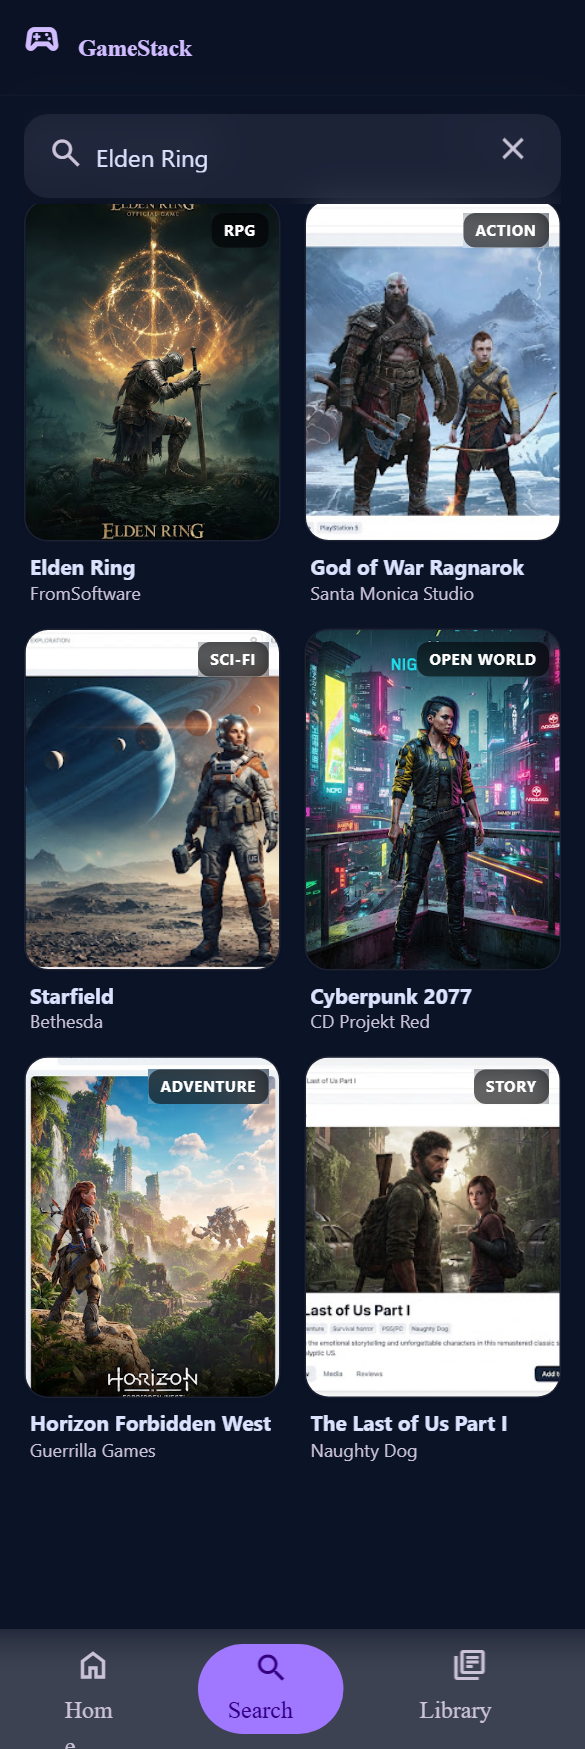
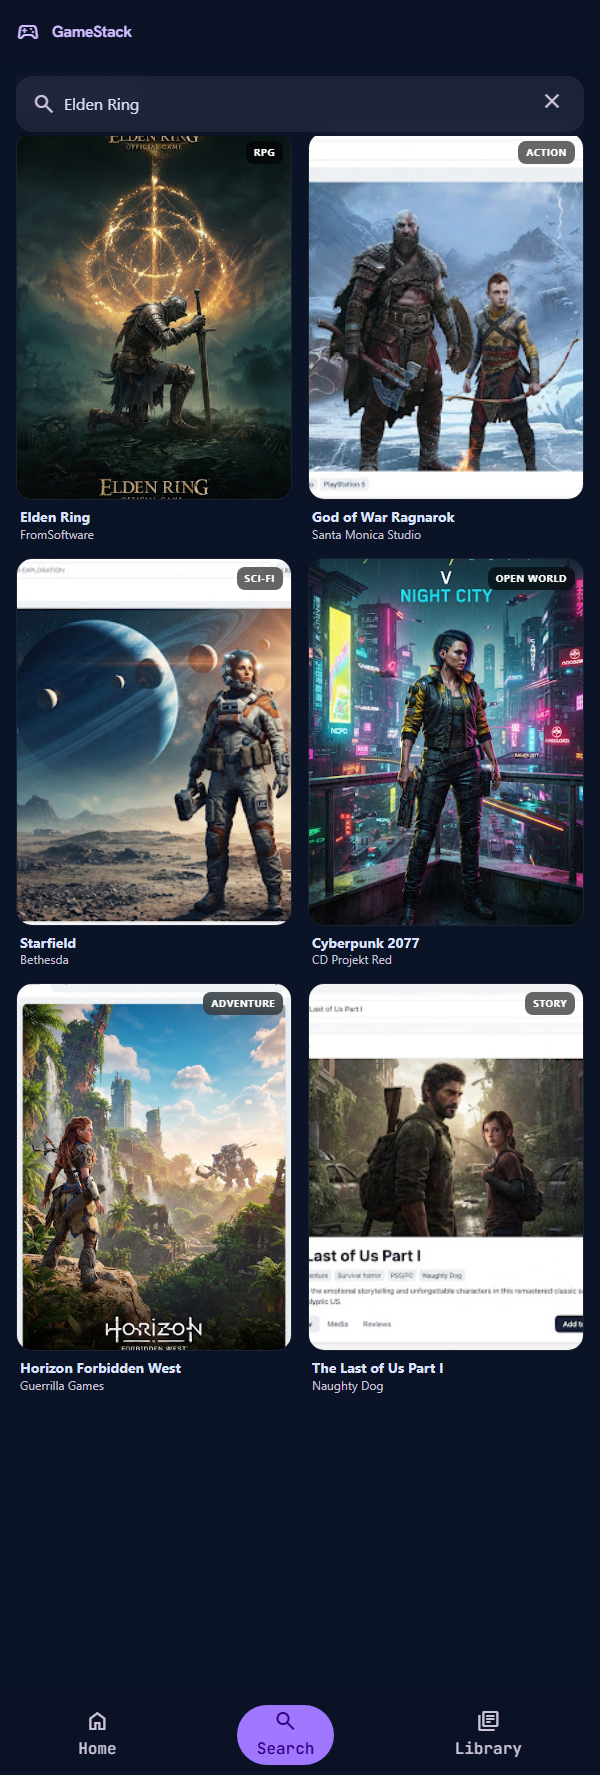
docs(design): add the refresh-error mockup and require one for a new state
The banner shipped, was verified on device and merged with no design reference
at all — search.html still shows the state it replaced. Nothing required a
mockup for a new state, so the gap stayed invisible.

Adds search-refresh-error.html and .png, a Tier 2 rule that a state departing
from the approved exports ships both files in the same change, and the trap
this cost five renders to find: a sticky element with a top offset displaces
itself downward and paints over what follows, so the banner was in --dump-dom
and absent from the screenshot.

The same overlap was already hiding a "Search Results" heading and a Filters
button inside search.html — present in the markup, absent from its own PNG.
Filters is deleted from both mockups: it is deferred in the Spec, and a control
nobody can see is how a deferred feature leaks back in. The new mockup also
drops the heading so it shows exactly what the app renders; search.html keeps
it pending a decision.

diff --git a/docs/project/design/search/search-refresh-error.html b/docs/project/design/search/search-refresh-error.html
@@ -1,7 +1,7 @@
 <!DOCTYPE html><html class="dark" lang="en" style=""><head>
 <meta charset="utf-8">
 <meta content="width=device-width, initial-scale=1.0, viewport-fit=cover" name="viewport">
-<title>GameStack - Search</title>
+<title>GameStack - Search (refresh failed)</title>
 <script src="https://cdn.tailwindcss.com?plugins=forms,container-queries"></script>
 <link href="https://fonts.googleapis.com/css2?family=Hanken+Grotesk:wght@500;600;700&amp;family=Inter:wght@400;500&amp;family=JetBrains+Mono:wght@500&amp;family=Material+Symbols+Outlined:wght,FILL@100..700,0..1&amp;display=swap" rel="stylesheet">
 <script id="tailwind-config">
@@ -106,9 +106,11 @@
 </div>
 </header>
 <!-- Main Canvas -->
-<main class="flex-1 mb-20 px-4 pb-8 overflow-y-auto mt-2">
+<main class="flex-1 mb-20 px-4 pb-8 overflow-y-auto pt-[72px]">
 <!-- Sticky Search Bar -->
-<div class="sticky top-[64px] z-40 bg-surface/80 backdrop-blur-md py-1 mb-2">
+<!-- sticky dropped for this render: position:sticky with top:64px displaces the
+     bar downward over the content below it, hiding the banner. Static export. -->
+<div class="bg-surface/80 py-1 mb-2">
 <div class="relative group">
 <div class="absolute inset-y-0 left-0 pl-4 flex items-center pointer-events-none">
 <span class="material-symbols-outlined text-on-surface-variant" data-icon="search">search</span>
@@ -121,9 +123,15 @@
 </div>
 </div>
 </div>
+<!-- Refresh-failure banner: shown above the results a failed pull-to-refresh
+     kept on screen. Uses error-container / on-error-container, matching
+     DESIGN.md and the implementation. -->
+<div class="flex items-center gap-2 rounded-lg pl-4 pr-2 py-2 mt-2 bg-error-container text-on-error-container">
+<span class="flex-1 text-sm" role="status">Couldn't refresh results</span>
+<button class="px-3 py-1 rounded-full text-sm font-medium hover:bg-on-error-container/10 transition-colors active:scale-95">Retry</button>
+</div>
 <!-- Section: Results -->
 <section class="mt-2">
-<h2 class="text-xl font-bold tracking-tight text-on-surface mb-6">Search Results</h2>
 <!-- 2-Column Bento Grid for Results -->
 <div class="grid grid-cols-2 gap-4">
 <!-- Game Card 1 -->

diff --git a/docs/project/DRIFT-CHECKLIST.md b/docs/project/DRIFT-CHECKLIST.md
@@ -135,6 +135,8 @@ useful history for understanding recurring patterns.
 
 | Date | Item | Resolution (code fixed / doc updated) |
 |---|---|---|
+| 2026-08-23 | The refresh-failure banner shipped, was verified on device and merged, and had no design reference at all: `search.html` still showed the state it replaced. Nothing in the harness required a mockup for a new state, so the gap was invisible until someone asked what the screen is supposed to look like | Asset added — `design/search/search-refresh-error.html` and `.png`, and a Tier 2 rule that a state departing from the approved exports ships its mockup in the same change, both files, with the recipe in `design/README.md`. That README also gains the trap this cost five renders to find: a `sticky` element with a `top` offset displaces itself downward and paints over whatever follows, so the banner was present in `--dump-dom` and invisible in the screenshot. Drop the `sticky` and give `main` a `pt-[72px]` for a static export |
+| 2026-08-23 | Building that mockup exposed that `design/search/search.html` **contains** a "Search Results" heading and a "Filters" button that its own PNG does not show — the same `sticky` overlap that hid the banner paints over them. So the earlier row saying "the approved mockup shows none" was right about the rendered asset and wrong about the file, and the real defect was markup that exists, is invisible, and had already misled one reading | Asset fixed — the Filters button is deleted from both mockups by explicit human decision: filters are deferred in the Spec, and a control nobody can see is exactly how a deferred feature leaks back in. `search-refresh-error.html` also drops the heading so it shows precisely what the app renders; `search.html` keeps it, still invisible, pending a plan-level call on whether the heading joins the code or leaves the design. Both PNGs regenerated, since removing markup that occupied space in flow shifts the layout even though it was painted over |
 | 2026-08-23 | The measurement justifying the new Robolectric rule was wrong in CLAUDE.md, this log and TOOLING-BACKLOG: "~4s for eight screen tests against ~1.5s for the other 27". Re-measured, the shape was also wrong: the cost scales at roughly a second per screen test rather than amortising as a per-class startup, and Robolectric is most of `testDebugUnitTest`. The old figure had been carried forward after more tests were added, and "27" was one test class mistaken for the whole suite. A recorded bound whose number is wrong is worse than none — the next reader sees 8.5s against a recorded 4s and cannot tell whether the suite regressed or the record lied | Doc updated in all three places, with the real figures and the mechanism (scales, does not amortise). The revisit trigger changed from a wall-clock number to **the second screen-test class**, because that is the concrete event that doubles it and it is close. The Gradle-task split is no longer "dropped as complexity bought for nothing" — it is TOOLING-BACKLOG item 5, ranked above the post-edit hook, since that hook's premise is a quick loop the split is what preserves. Rule of thumb recorded in CLAUDE.md: re-measure when adding a screen test; never carry a figure forward, which is exactly how this went wrong |
 | 2026-08-23 | Testing Stack (Tier 1) forbade Robolectric so `./gradlew test` would stay fast. The rule predated the question it was blocking: Compose screen tests under Robolectric run on the JVM in seconds, and they are the only thing that can reach Composable-level logic. Two real gaps were sitting behind it — the `rememberSingleClick` fix on the empty-state CTA had no test at all (recorded as untestable on 2026-08-22), and nothing asserted that the refresh banner declares a live region | Rule changed after explicit conversation, and narrowed rather than relaxed: Robolectric is permitted **for Compose screen tests and nothing else** — not for DAOs against real SQLite, never as a substitute for a test that already runs pure. The split into separate Gradle tasks was deferred on a measurement that later proved wrong — corrected in the row above; the real cost is ~1s per screen test and scales, so the trigger is now the second screen-test class. `SearchContent` is now `internal` so tests drive it with a `UiState` instead of standing up a ViewModel |
 | 2026-08-23 | The first screen test found that `rememberSingleClick` swallowed the *first* click, not the second: `lastClickMillis` initialised to `0L`, which is a real `SystemClock.uptimeMillis()` value and therefore claims a click happened at boot. Any click within 700ms of boot was dropped | Code fixed — the field is now nullable, with null meaning "never clicked". Not a user-visible defect: on a device, uptime is hours by the time a screen is interactive, which is exactly why no manual pass could ever have caught it. It was caught the way it should be, in the right order: the test was written first, failed with an empty event list, and the failure named the cause. Worth recording as the first return on screen tests, on the day they were introduced |
@@ -174,7 +176,7 @@ useful history for understanding recurring patterns.
 | 2026-08-23 | `/code-review` on the refactored pipeline found that `.debounce {}` sitting upstream of `.mapLatest {}` held a new keystroke for its own 400ms before `mapLatest` saw it, so the previous request kept running and its response could still land — showing settled results for text already replaced, or flashing the full-screen error card, for up to the whole debounce window. The hand-rolled `Job` version this replaced did *not* have that hole: it cancelled synchronously on every keystroke. The `new-viewmodel` skill had already been written documenting the flawed shape | Code fixed — the wait moved inside `mapLatest` (`delay(request.debounceMillis)`), so a newer request cancels the running one first and only then waits; the `debounce` operator and its `FlowPreview` opt-in are gone. Skill corrected in the same commit, with the trap stated explicitly because both shapes read almost identically. Noted for the record: this is the second time a fix in this file introduced the next defect, which is what the rule-of-three heuristic is meant to catch earlier |
 | 2026-08-23 | `MessageState` centred ~280dp of content in a non-scrollable `fillMaxSize` column while Search passed it `imePadding()`, so in landscape or with the keyboard raised it clipped symmetrically and pushed the CTA off-screen, unreachable | Code fixed — `verticalScroll(rememberScrollState())` added; the min height constraint survives it, so short content stays centred |
 | 2026-08-23 | `isRefreshing` was only set once `performSearch` ran, a coroutine hop after the pull was released, and nothing reset it when typing superseded a refresh — `PullToRefreshBox` reads the flag synchronously, so the indicator retracted and re-appeared on every pull, then spun over the shimmer grid when the user typed | Code fixed — set synchronously in `onRefresh`, and cleared in the branch where a new query supersedes the refresh, since `mapLatest` cancels that coroutine before it can reset the flag itself |
-| 2026-08-23 | `search_results_heading` existed in `strings.xml` but was referenced nowhere; the results grid has no heading | Code fixed — string deleted. The grid deliberately has no heading (the approved mockup shows none), so the string was the leftover, not the layout |
+| 2026-08-23 | `search_results_heading` existed in `strings.xml` but was referenced nowhere; the results grid has no heading | Code fixed — string deleted; the grid renders no heading. **Note, 2026-08-23:** accurate about the PNG, but `search.html` did contain both a heading and a Filters button, invisible under a `sticky` overlap. See the row at the top of this table |
 | 2026-08-23 | A fourth Codex pass found a fourth defect in the same ~40 lines of `SearchViewModel`: returning to a previously successful query after a failed one took the no-op branch, which left the failed query's `errorMessage` on screen covering results that were still loaded. Three consecutive review rounds had each found a real defect in that logic, and two of the fixes had introduced the next one | Code fixed by replacing the logic rather than patching it a fourth time, per an explicit human decision to stop patching. The hand-rolled `Job` plus remembered-query fields are gone; input now flows through `distinctUntilChanged` (a whitespace-only edit is not a new query), `debounce` (a newer request drops what was pending, so a refresh supersedes an undispatched keystroke) and `mapLatest` (a newer search cancels the running one). No field records which query was already searched — every version that kept one eventually let it disagree with the screen, which was the root of three of the four defects. Documented in `new-viewmodel` so the next debounced screen is not hand-rolled. Accepted trade, stated in the test: reverting text to a previously searched query now re-runs that search, one extra request behind the debounce, in exchange for deleting the field |
 | 2026-08-22 | Tier 1's blanket "never force-push a branch that has already been pushed" made squash-merge the only remedy for an untidy branch, which contradicted the merge-strategy rule adopted the same day (merge commit by default, precisely to keep `blame` and `bisect` granularity). The absolute rule was guarding against overwriting a collaborator's work — a risk that does not exist in a solo repo | Doc updated after explicit conversation, as Tier 1 requires. Tier 1 keeps the absolute ban on force-pushing `main`, any branch another person may hold, and bare `--force` anywhere; Tier 2 now permits `--force-with-lease` on your own feature branch **until its first review**. The window is anchored to the first review rather than the first push because rewriting commits orphans review threads, and that history is what caught two defects the gate passed on PR #3. Recorded in the rule itself that it is deliberately conditional where an absolute rule would be easier to obey, and why that trade was accepted |
 | 2026-08-22 | A second Codex review pass found two defects that the first pass's own fixes had introduced: unconditionally cancelling `searchJob` on every keystroke also killed the request already in flight for the same effective query (a trailing space during a first search discarded the IGDB response and dropped the screen to "No Results Found"), and `rememberSingleClick` had been applied to the result cards only, leaving the empty-state "Go To Library" CTA able to queue a duplicate navigation effect | Code fixed with two regression tests, both verified to fail without the fix. `SearchViewModel` now tracks `searchJobQuery` — the effective query the active job serves — because "a job is already searching this exact text, let it land" and "a job is scheduled for text the user abandoned, cancel it" reach the same branch and need opposite handling; `cancelSearch`/`startSearch` extracted so refresh and debounce share one path. CLAUDE.md's MVI section reworded: the guard applies to *every* navigation callback and is audited per screen, not per list — the list-centric wording is what caused the CTA to be missed. A no-argument `rememberSingleClick` overload added so single controls do not read as `rememberSingleClick<Unit>`. Note: the CTA fix has no unit test, since `rememberSingleClick` is a Composable and instrumented tests remain deferred |

diff --git a/docs/project/design/README.md b/docs/project/design/README.md
@@ -25,7 +25,7 @@ same output every time.
   "file:///C:/absolute/path/to/mockup.html"
 ```
 
-Four things that are not obvious and each cost a failed attempt:
+Five things that are not obvious and each cost a failed attempt:
 
 - **`--screenshot` needs an absolute Windows path.** A relative path fails with
   `Failed to write file … Acceso denegado`, which reads like a permissions
@@ -35,6 +35,12 @@ Four things that are not obvious and each cost a failed attempt:
   you get an unstyled page.
 - **Width matters.** Below ~600px the Stitch markup clips its own fixed header
   and search bar at the right edge. 600×1775 matches the existing assets.
+- **A `sticky` element with a `top` offset displaces itself downward and covers
+  whatever follows it.** These exports use `sticky top-[64px]` on the search bar
+  to clear the fixed header, which in a static render just hides the next block —
+  it cost five renders to find, because the element is present in `--dump-dom`
+  and simply painted over. For a new state, drop the `sticky` and give `main` a
+  `pt-[72px]` instead: same picture, nothing hidden.
 - The Chrome path above is the Windows default; adjust per machine.
 
 ## Screenshot cost, and why the AVD size is not a lever
@@ -83,3 +89,18 @@ a fraction of a screenshot's cost, but never anything involving the keyboard.
 No Skill owns "produce or refresh a design reference". Rendering currently
 happens ad hoc against this file. If it recurs, that is a Skill worth adding
 rather than improvising each time — see CLAUDE.md → Available Skills.
+
+## A new state needs its own mockup
+
+Any element or screen state that departs from what the approved exports already
+show gets its own `.html` and `.png` here, in the folder for its screen, named
+for the state (`search-refresh-error`, not `search-2`).
+
+Both files, not one. The HTML is what an agent reads and re-renders; the PNG is
+what a human looks at without a browser. A state with only a PNG cannot be
+regenerated, and a state with only HTML will not be looked at.
+
+This exists because the refresh-failure banner shipped, was verified on device,
+and then had no design reference at all — the screen's mockup still showed the
+state it replaced. The gap is invisible until someone asks what the screen is
+supposed to look like.

diff --git a/CLAUDE.md b/CLAUDE.md
@@ -123,6 +123,11 @@ work with no UI change does not need this pass.
 
 Run the `verify-on-device` Skill for the procedure.
 
+- **A new screen state gets a mockup.** Any element or state that departs from
+  what the approved exports show is added to `docs/project/design/` as both
+  `.html` and `.png`, in that screen's folder, in the same change that ships it.
+  Recipe and naming: `docs/project/design/README.md`.
+
 ### Accessibility — Tier 2
 **MVP does not target accessibility.** TalkBack passes, large-font and contrast
 audits, and touch-target sizing are backlog (Spec → Explicitly Deferred). So an
